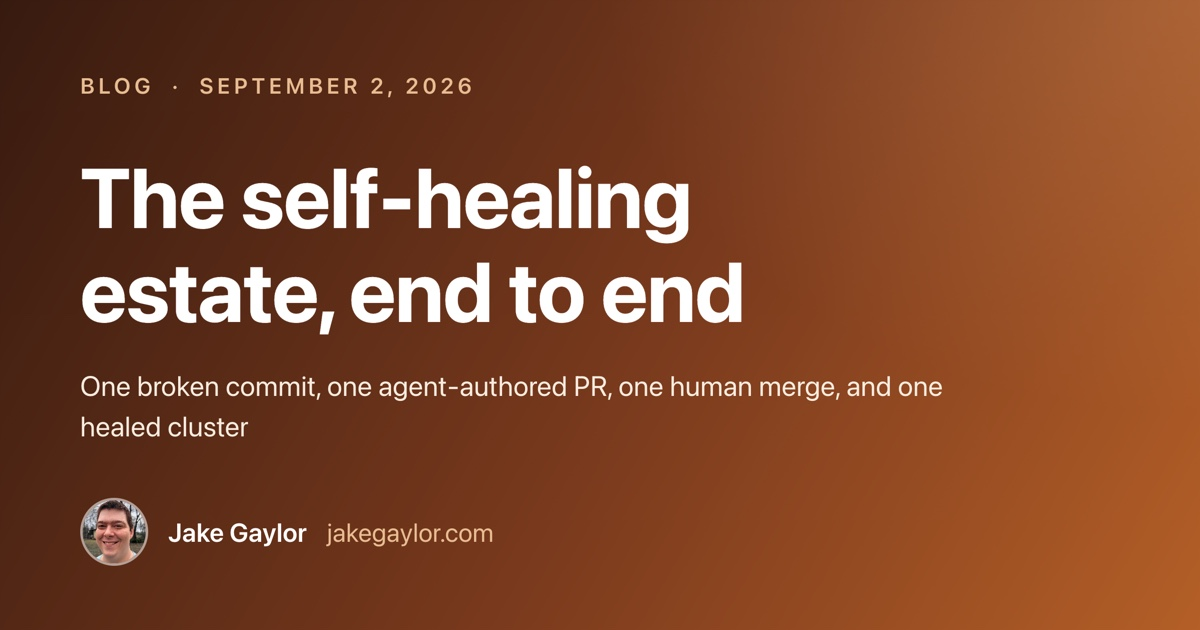
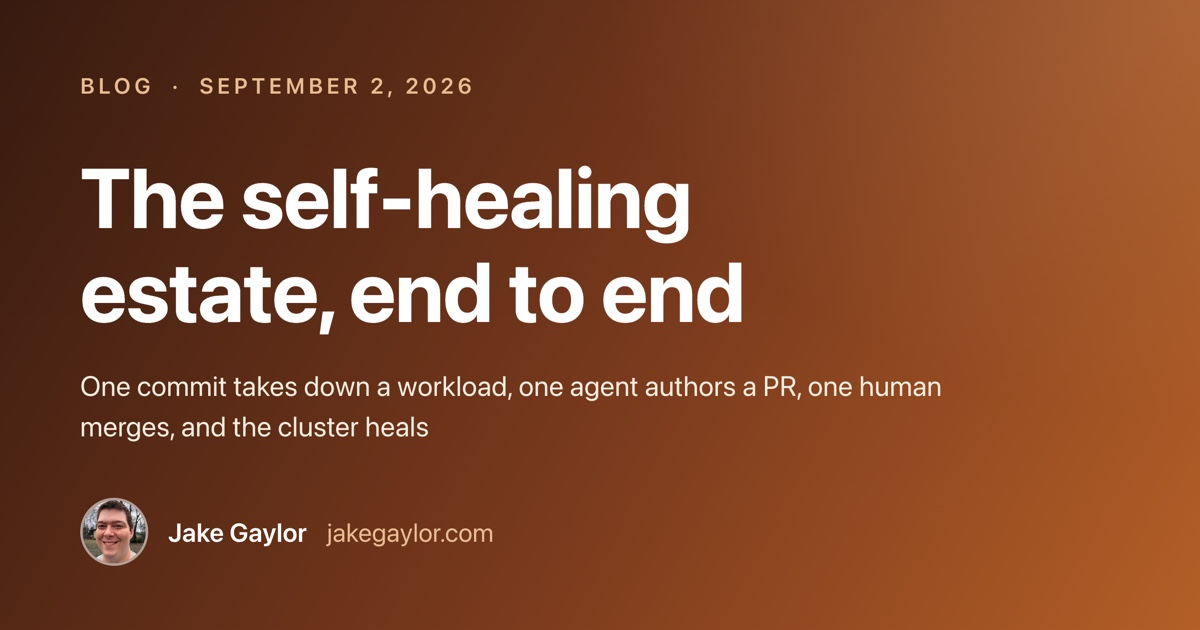
clarify the self-healing incident trigger

Changed region(s): [[0.0925, 0.6032, 0.8017, 0.6333], [0.0617, 0.6635, 0.37, 0.6937]]

diff --git a/blog/posts/self-healing-estate.md b/blog/posts/self-healing-estate.md
@@ -3,12 +3,12 @@ layout: layouts/blog.html
 tags: ["posts"]
 title: "The self-healing estate, end to end"
 og_image: /images/og/self-healing-estate.jpg
-description: "One broken commit, one agent-authored PR, one human merge, and one healed cluster"
+description: "One commit takes down a workload, one agent authors a PR, one human merges, and the cluster heals"
 permalink: /blog/posts/self-healing-estate/
 date: 2026-09-02
 ---
 
-A wrong commit lands on `main`. Flux applies it in about 15 seconds. The workload starts crashlooping while every drift check stays green.
+A commit lands on `main`. Flux applies it in about 15 seconds, and the workload starts crashlooping while every drift check stays green.
 
 About two minutes later, an agent opens a fix PR. It has found the root cause and written the smallest repair it can. It has no cluster credentials and cannot merge its own work. That last step belongs to me.
 
@@ -16,14 +16,14 @@ I call the agent `estate-medic`. This is the incident loop running in my [home c
 
 <figure class="wide-figure">
   <div class="wide-figure-scroll">
-    <img src="/images/estate-medic-loop.svg" alt="A bad commit travels through Flux to a failed workload and Prometheus. Alertmanager sends the incident to a phone and a dispatcher. The dispatcher starts an agent, which reads the estate through Behold and opens a fix PR. Human approval closes the loop back to main.">
+    <img src="/images/estate-medic-loop.svg" alt="A commit travels through Flux and causes a workload to fail. Prometheus detects the failure, and Alertmanager sends the incident to a phone and a dispatcher. The dispatcher starts an agent, which reads the estate through Behold and opens a fix PR. Human approval closes the loop back to main.">
   </div>
   <figcaption>Detection to an open PR takes about two minutes. The break travels across the top, the response returns along the bottom, and the amber approval edge belongs to a human.</figcaption>
 </figure>
 
 ## The failure GitOps cannot see
 
-Flux keeps the cluster matched to Git. That handles drift, while a bad commit remains authoritative and gets applied faithfully.
+Flux keeps the cluster matched to Git. That handles drift and applies defects in the source just as faithfully.
 
 The failure that proved this removed a database password reference from a deployment. Kubernetes accepted the manifest, CI stayed green, and Flux applied it. The database went down with the cluster still matching Git exactly. Another reconciliation would have reproduced the failure.
 
